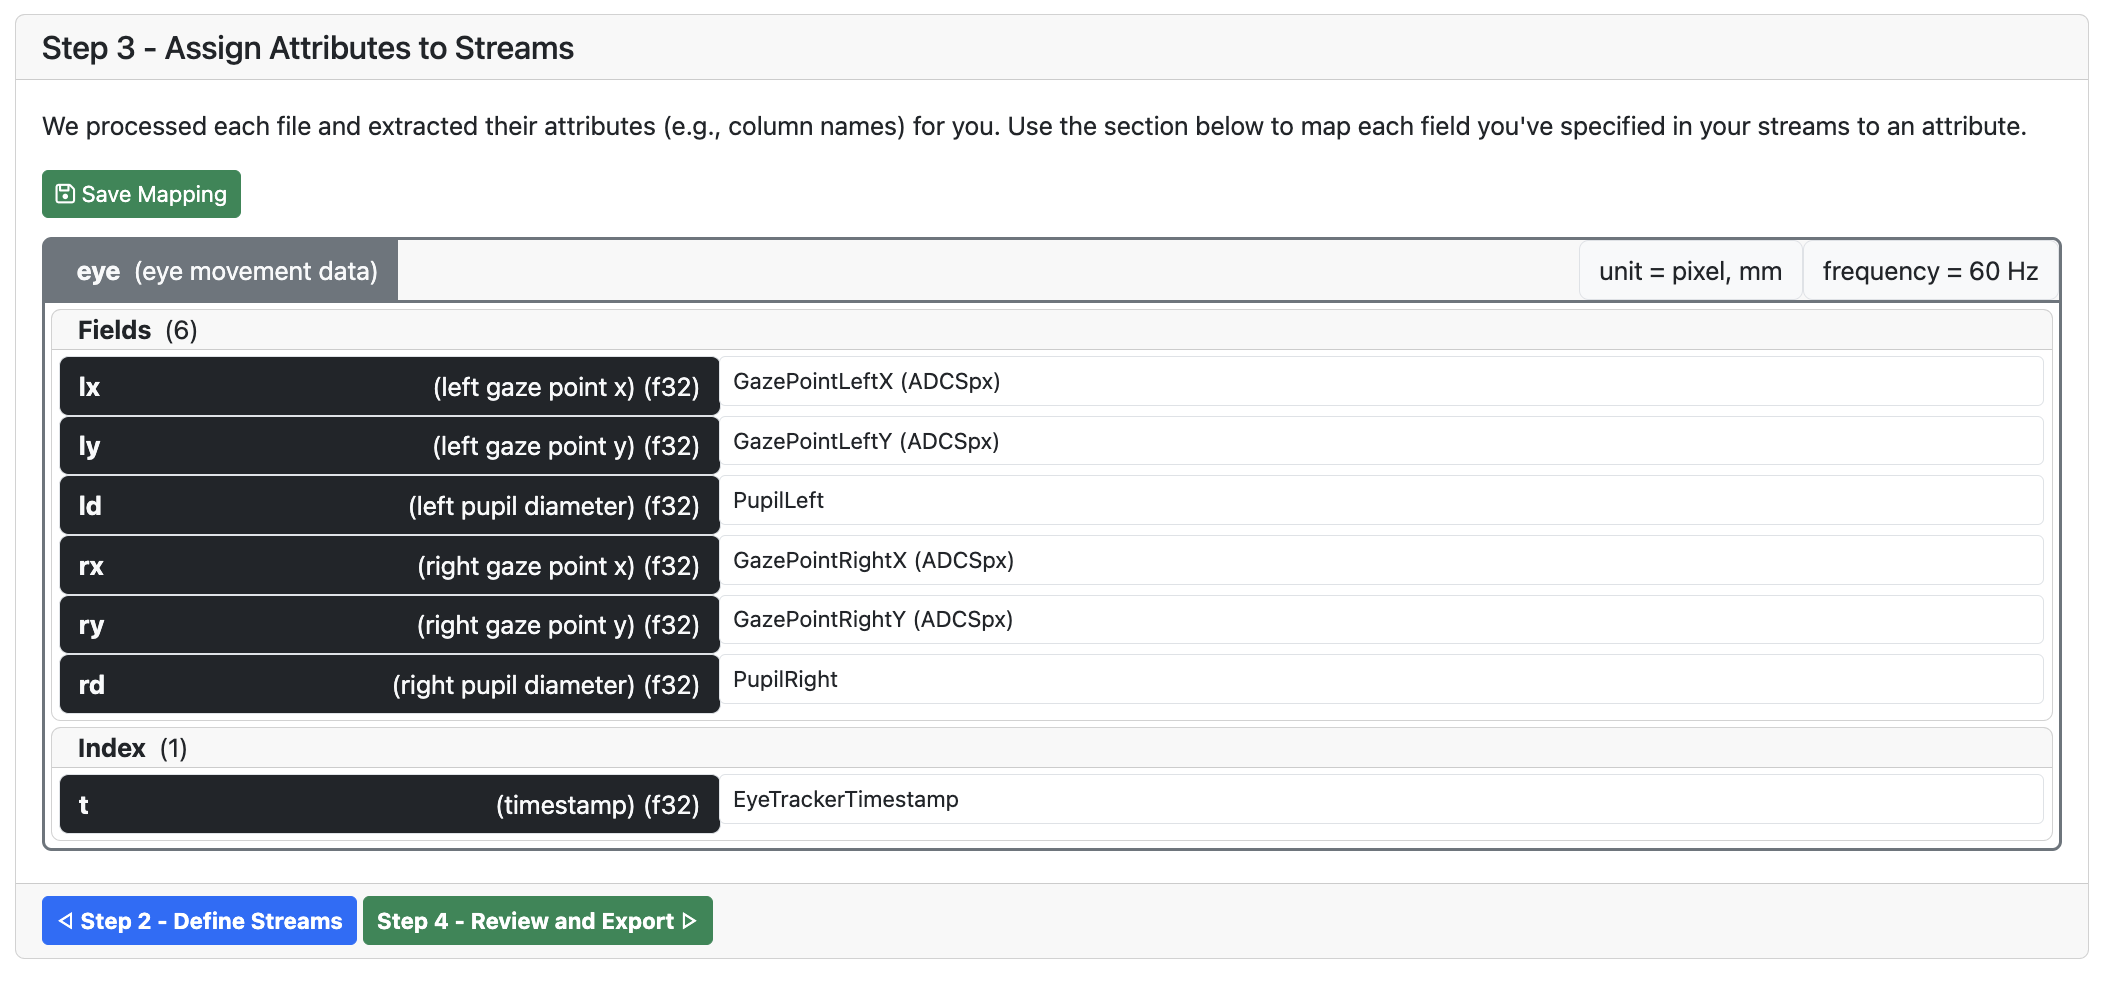
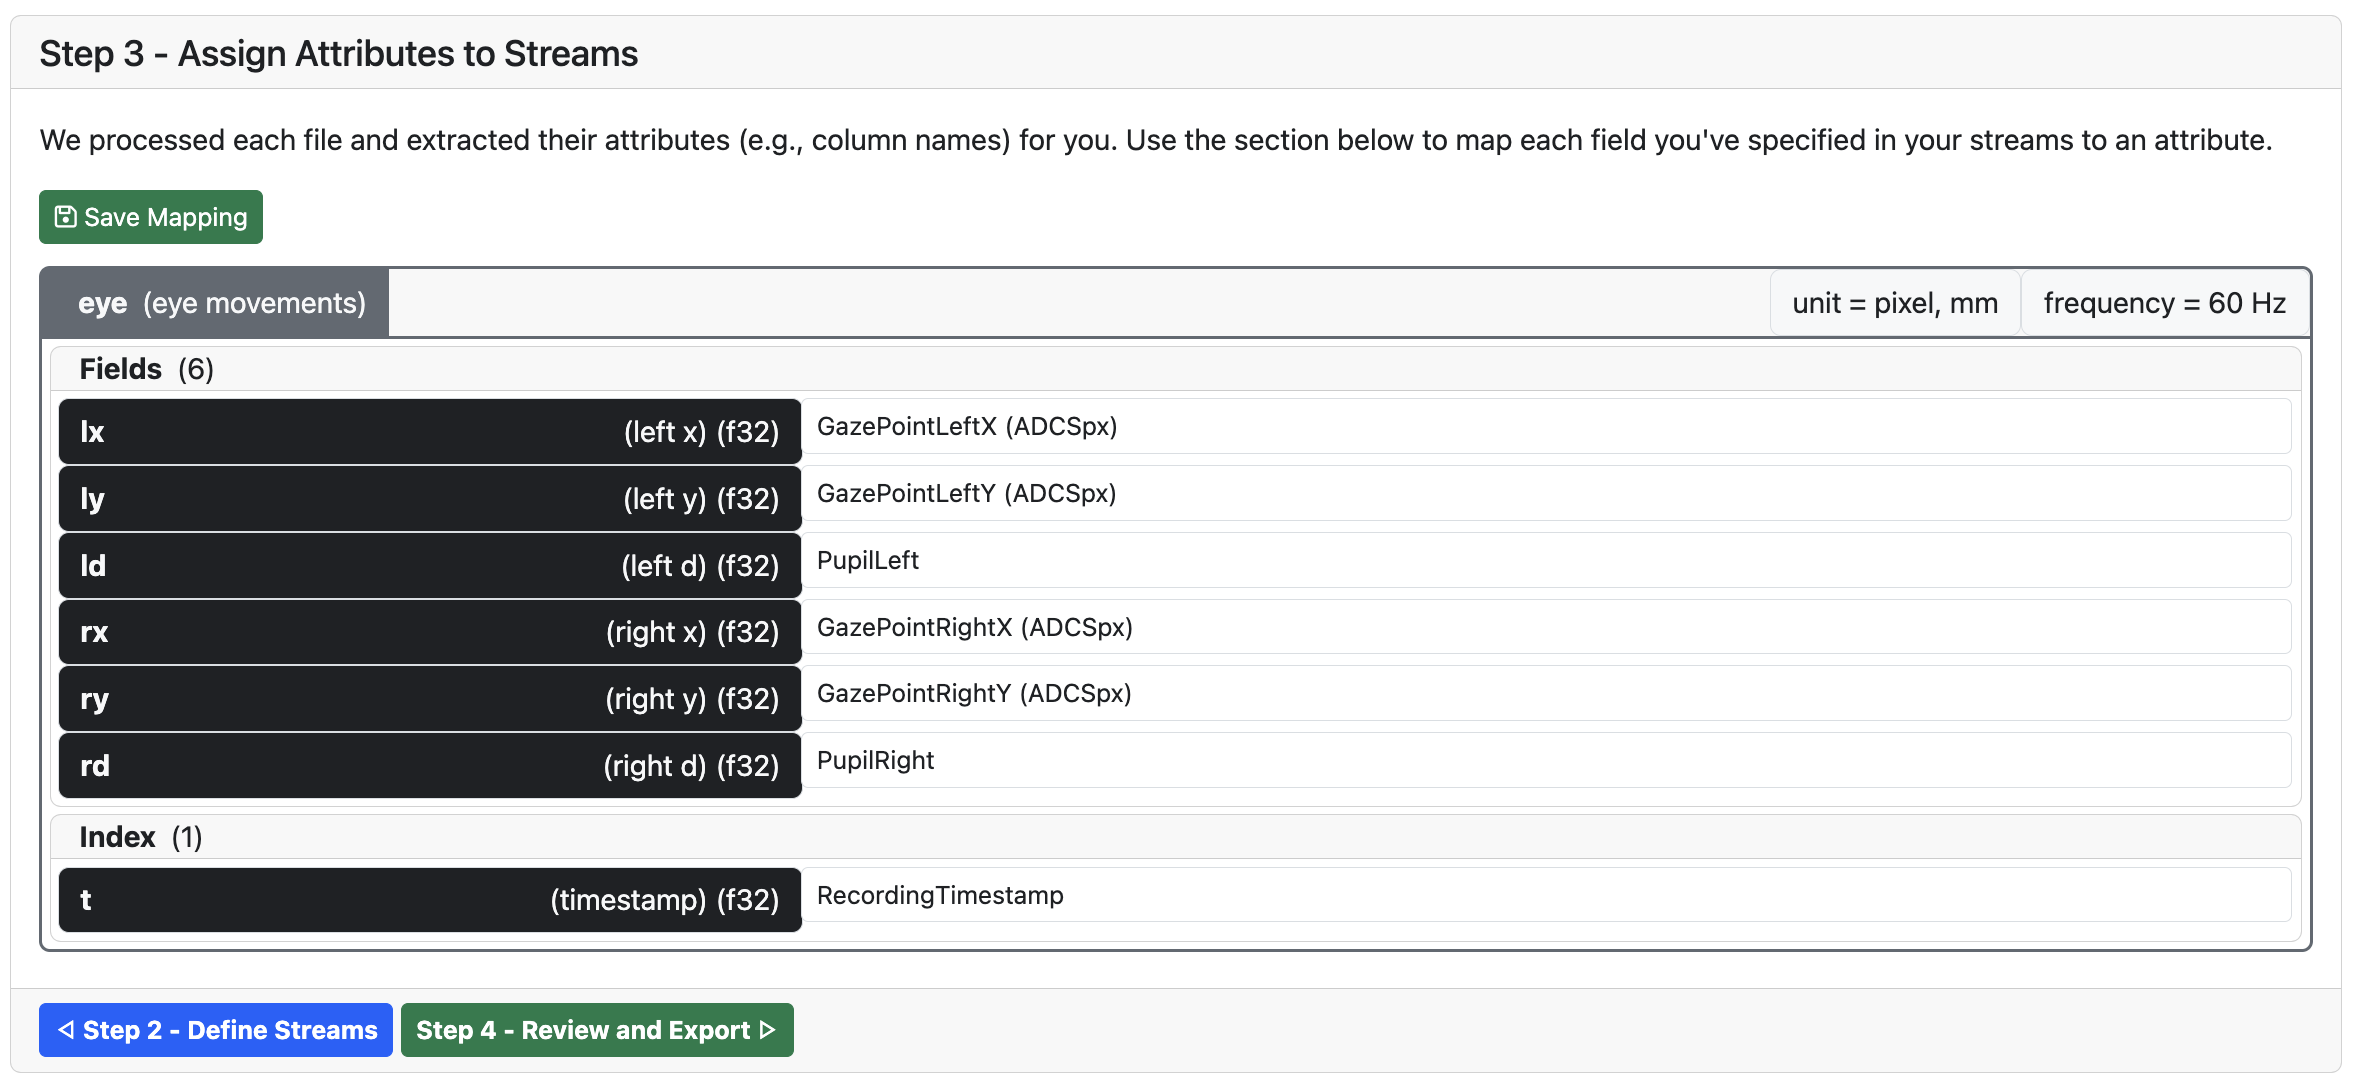
make user study html pages responsive

Changed region(s): [[0.0, 0.1833, 0.9991, 0.9776], [0.0, 0.1222, 0.9678, 0.1527], [0.0, 0.0305, 0.281, 0.0611]]

diff --git a/evaluation/ustdy_3_usability/index.html b/evaluation/ustdy_3_usability/index.html
@@ -17,6 +17,9 @@ body {
 	padding: 0 26px;
 	line-height: var(--vscode-markdown-line-height, 22px);
 	word-wrap: break-word;
+	max-width: min(50em, 100%);
+	margin-left: auto;
+	margin-right: auto;
 }
 
 #code-csp-warning {
@@ -413,7 +416,7 @@ code {
     pipeline_A = datamux.Pipeline(
         api.attach(stream, transform=preprocessor),
         <span class="hljs-comment"># IVT(screen_wh=screen_wh, diag_dist=diag_dist, freq=freq, vt=vt, transform=None),</span>
-        LogWriter(**stream.attrs, simulation=<span class="hljs-string">"ivt"</span>),
+        LogWriter(name=<span class="hljs-string">"ivt"</span>, **stream.attrs),
     )
 
     <span class="hljs-comment"># run pipeline</span>
@@ -429,7 +432,7 @@ code {
 <p><img src="assets/2.gif" alt="2"></p>
 <h2 id="setting-the-dataset-root">Setting the Dataset Root</h2>
 <p>Now, lets pick the current folder as the dataset’s root by clicking the <code>Use as Root</code> button at the top. This will get rid of long file paths.</p>
-<p><img src="assets/3.png" alt="3"></p>
+<p><img src="assets/3.gif" alt="3"></p>
 <h2 id="setting-the-dataset-name">Setting the Dataset Name</h2>
 <p>Nice! Let’s specify a name for the dataset. In the <strong>Dataset Name</strong> box, type in <code>ADHD_SIN</code> and click on the <code>save</code> icon on the right.</p>
 <h2 id="extracting-metadata-from-file-namespaths">Extracting Metadata from File Names/Paths</h2>
@@ -443,7 +446,7 @@ code {
 <pre class="hljs"><code><div>(?P&lt;subject&gt;\d+)ADHD_AV_(?P&lt;noise&gt;0|5|10|15|20|25)(?P&lt;task&gt;\d+)\.csv
 </div></code></pre>
 <p><strong>Now, let’s use this pattern to extract metadata from file names.</strong> Begin by selecting all files from the table in <strong>Step 1</strong> block.  Now copy-paste the above regular expression into the <strong>Name Pattern</strong> box under <strong>Extract Metadata</strong>, and click on <code>Extract</code>. Upon doing so, you will see that Curator has extracted metadata from each file name.</p>
-<p><img src="assets/6.png" alt="6"></p>
+<p><img src="assets/6.gif" alt="6"></p>
 <h2 id="identifying-relevant-columns-in-data">Identifying Relevant Columns in Data</h2>
 <p>Now let’s open some files and view their content. For this, you can simply <strong>click on the file names</strong> on either of the tables. This will download the selected file(s) to your computer, where you can view their content. Depending on your web browser, you may either get a download prompt, or the file may download/open immediately.</p>
 <p><img src="assets/4.png" alt="4"></p>
@@ -456,9 +459,9 @@ code {
 <li>GazePointRightY (ADCSpx)</li>
 <li>PupilLeft</li>
 <li>PupilRight</li>
-<li>EyeTrackerTimestamp</li>
+<li>RecordingTimestamp</li>
 </ol>
-<p>The <code>GazePointLeftX (ADCSpx)</code>, <code>GazePointLeftY (ADCSpx)</code>, <code>GazePointRightX (ADCSpx)</code>, and <code>GazePointRightY (ADCSpx)</code> columns indicate which eye (left or right) and axis (x or y) it represents, and that its values are in pixels (<code>px</code>). However, the <code>PupilLeft</code> and <code>PupilRight</code> column names lack the unit information. If you observe the <code>PupilLeft</code> and <code>PupilRight</code> column values, you will find their values to be in range of <code>3.0</code> — <code>5.0</code> , which matches human pupil diameter range in <code>mm</code> (<code>2.0</code> to <code>8.0</code>). Hence we can safely assume their values are in <code>mm</code>. The <code>EyeTrackerTimestamp</code> column gives time information. All data appears to be in 60 Hz (i.e., each file has 60 rows per second).</p>
+<p>The <code>GazePointLeftX (ADCSpx)</code>, <code>GazePointLeftY (ADCSpx)</code>, <code>GazePointRightX (ADCSpx)</code>, and <code>GazePointRightY (ADCSpx)</code> columns indicate which eye (left or right) and axis (x or y) it represents, and that its values are in pixels (<code>px</code>). However, the <code>PupilLeft</code> and <code>PupilRight</code> column names lack the unit information. If you observe the <code>PupilLeft</code> and <code>PupilRight</code> column values, you will find their values to be in range of <code>3.0</code> — <code>5.0</code> , which matches human pupil diameter range in <code>mm</code> (<code>2.0</code> to <code>8.0</code>). Hence we can safely assume their values are in <code>mm</code>. The <code>RecordingTimestamp</code> column gives time information. All data appears to be in 60 Hz (i.e., each file has 60 rows per second).</p>
 <p>With this information, let’s move onto the next step by clicking <strong>Step 2 - Define Streams</strong>.</p>
 <h2 id="defining-data-streams">Defining Data Streams</h2>
 <p>Now, you’re in the page where you can specify what structure you want the data to be in. Lets first define a stream with the following attributes.</p>
@@ -485,7 +488,7 @@ code {
 </ul>
 <p>Leave all <strong>description</strong> fields blank. Use float32 for all <strong>type</strong> fields. The final UI will look like follows.</p>
 <p><img src="assets/8.png" alt="8"></p>
-<p>Once done, click the <strong>Save Streams</strong> button to save what you just defined.</p>
+<p>Once done, <span style="background-color: yellow;">click the <strong>Save Streams</strong> button</span> to save what you just defined.</p>
 <aside>
 Note that here, we put both x, y positions (which have `pixel` units) and pupil diameters (which have `mm` units) into the same stream, and set its unit as `pixel, mm`. Alternatively, you could define two separate streams, `gaze` and `pupil`, with `gaze` having `pixel` as unit, and `pupil` having `mm` as unit. Depending on your need, you can pick one format over the other. For the scope of this tutorial, let’s stick to having one `eye` stream.
 </aside>
@@ -503,11 +506,11 @@ Note that here, we put both x, y positions (which have `pixel` units) and pupil 
 <li><code>rx</code> - GazePointRightX (ADCSpx)</li>
 <li><code>ry</code> - GazePointRightY (ADCSpx)</li>
 <li><code>rd</code> - PupilRight</li>
-<li><code>t</code> - EyeTrackerTimestamp</li>
+<li><code>t</code> - RecordingTimestamp</li>
 </ul>
 <p>Once assigned, the UI should look as follows.</p>
 <p><img src="assets/11.png" alt="11"></p>
-<p>Now, click on the <code>Save Mapping</code> button and click on <code>Step 4 - Review and Export</code> to proceed to the next step.</p>
+<p>Now, <span style="background-color: yellow;">click on the <code>Save Mapping</code> button</span> and click on <code>Step 4 - Review and Export</code> to proceed to the next step.</p>
 <h2 id="exporting-the-dataset">Exporting the Dataset</h2>
 <p>Now, you’re in the page where you can download the dataset with a file format and indexing pattern of your choice.</p>
 <p><img src="assets/12.png" alt="12"></p>
@@ -527,7 +530,7 @@ Note that here, we put both x, y positions (which have `pixel` units) and pupil 
 source ./venv/bin/activate
 python -m pip install -r requirements.txt
 </div></code></pre>
-<p>This will install four packages: <code>streaminghub-datamux</code> , <code>streaminghub-pydfds</code>, <code>streaminghub-proxy-pupil-core</code>, and their required dependencies.</p>
+<p>This will install three packages: <code>streaminghub-datamux</code> , <code>streaminghub-pydfds</code>, <code>streaminghub-proxy-pupil-core</code>, and their required dependencies.</p>
 <p><strong>Step 4:</strong> Create a new directory named <code>$HOME/streaminghub</code> and configure the <code>streaminghub-datamux</code> package to use that directory.</p>
 <pre class="hljs"><code><div>mkdir -p $HOME/streaminghub
 python -m streaminghub_datamux init --data_dir="$HOME/streaminghub" --meta_dir="$HOME/streaminghub"
@@ -584,7 +587,7 @@ drwxr-xr-x@ 850 ......  .....  27200 Jun 24 13:30 ADHD_SIN
     pipeline_A = datamux.Pipeline(
         api.attach(stream, transform=preprocessor),
         <span class="hljs-comment"># IVT(screen_wh=screen_wh, diag_dist=diag_dist, freq=freq, vt=vt, transform=None),</span>
-        LogWriter(**stream.attrs, simulation=<span class="hljs-string">"ivt"</span>),
+        LogWriter(name=<span class="hljs-string">"ivt"</span>, **stream.attrs),
     )
 
     <span class="hljs-comment"># run pipeline</span>
@@ -626,7 +629,7 @@ drwxr-xr-x@ 850 ......  .....  27200 Jun 24 13:30 ADHD_SIN
 pipeline_A = datamux.Pipeline(
     api.attach(stream, transform=preprocessor),
     <span class="hljs-comment"># IVT(screen_wh=screen_wh, diag_dist=diag_dist, freq=freq, vt=vt, transform=None),</span>
-    LogWriter(**stream.attrs, simulation=<span class="hljs-string">"ivt"</span>),
+    LogWriter(name=<span class="hljs-string">"ivt"</span>, **stream.attrs),
 )
 </div></code></pre>
 <p><strong>After</strong></p>
@@ -634,7 +637,7 @@ pipeline_A = datamux.Pipeline(
 pipeline_A = datamux.Pipeline(
     api.attach(stream, transform=preprocessor),
     IVT(screen_wh=screen_wh, diag_dist=diag_dist, freq=freq, vt=vt, transform=<span class="hljs-literal">None</span>),
-    LogWriter(**stream.attrs, simulation=<span class="hljs-string">"ivt"</span>),
+    LogWriter(name=<span class="hljs-string">"ivt"</span>, **stream.attrs),
 )
 </div></code></pre>
 <p>Now, let’s run the pipeline again.</p>

diff --git a/evaluation/ustdy_1_need/index.html b/evaluation/ustdy_1_need/index.html
@@ -17,6 +17,9 @@ body {
 	padding: 0 26px;
 	line-height: var(--vscode-markdown-line-height, 22px);
 	word-wrap: break-word;
+	max-width: min(50em, 100%);
+	margin-left: auto;
+	margin-right: auto;
 }
 
 #code-csp-warning {
@@ -368,7 +371,7 @@ code {
 <form id="questionnaire">
 <h1 id="streaminghub-questionnaire---introduction">StreamingHub Questionnaire - Introduction</h1>
 <p>The text below describes the perspectives of three researchers; <strong>Alice</strong>, <strong>Bob</strong>, and <strong>Cindy</strong>.</p>
-<p><img style="max-width: 50em; max-height: 50em;" src="https://raw.githubusercontent.com/nirdslab/streaminghub/master/evaluation/ustdy_1_need/assets/personas.png" alt="Personas"></p>
+<p><img src="https://raw.githubusercontent.com/nirdslab/streaminghub/master/evaluation/ustdy_1_need/assets/personas.png" alt="Personas"></p>
 <ol>
 <li><strong>Alice (Dataset Curation) -</strong> Collecting and organizing datasets for easy reuse</li>
 <li><strong>Bob (Algorithm Design) -</strong> Developing RT algorithms and validating them on existing data</li>

diff --git a/evaluation/ustdy_2_preference/index.html b/evaluation/ustdy_2_preference/index.html
@@ -17,6 +17,9 @@ body {
 	padding: 0 26px;
 	line-height: var(--vscode-markdown-line-height, 22px);
 	word-wrap: break-word;
+	max-width: min(50em, 100%);
+	margin-left: auto;
+	margin-right: auto;
 }
 
 #code-csp-warning {

diff --git a/evaluation/ustdy_3_usability/index.md b/evaluation/ustdy_3_usability/index.md
@@ -51,7 +51,7 @@ if __name__ == "__main__":
     pipeline_A = datamux.Pipeline(
         api.attach(stream, transform=preprocessor),
         # IVT(screen_wh=screen_wh, diag_dist=diag_dist, freq=freq, vt=vt, transform=None),
-        LogWriter(**stream.attrs, simulation="ivt"),
+        LogWriter(name="ivt", **stream.attrs),
     )
 
     # run pipeline
@@ -78,7 +78,7 @@ Let’s first open the `Eye Tracking/ADHD-Audio-Visual-Speech-In-Noise/data` fol
 
 Now, lets pick the current folder as the dataset’s root by clicking the `Use as Root` button at the top. This will get rid of long file paths.
 
-![3](assets/3.png)
+![3](assets/3.gif)
 
 ## Setting the Dataset Name
 
@@ -100,7 +100,7 @@ Notice that each file is named according to the pattern `<subject>ADHD_AV_<noise
 
 **Now, let’s use this pattern to extract metadata from file names.** Begin by selecting all files from the table in **Step 1** block.  Now copy-paste the above regular expression into the **Name Pattern** box under **Extract Metadata**, and click on `Extract`. Upon doing so, you will see that Curator has extracted metadata from each file name.
 
-![6](assets/6.png)
+![6](assets/6.gif)
 
 ## Identifying Relevant Columns in Data
 
@@ -118,9 +118,9 @@ That’s one messy file! Let’s find which columns represent the **gaze positio
 4. GazePointRightY (ADCSpx)
 5. PupilLeft
 6. PupilRight
-7. EyeTrackerTimestamp
+7. RecordingTimestamp
 
-The `GazePointLeftX (ADCSpx)`, `GazePointLeftY (ADCSpx)`, `GazePointRightX (ADCSpx)`, and `GazePointRightY (ADCSpx)` columns indicate which eye (left or right) and axis (x or y) it represents, and that its values are in pixels (`px`). However, the `PupilLeft` and `PupilRight` column names lack the unit information. If you observe the `PupilLeft` and `PupilRight` column values, you will find their values to be in range of `3.0` — `5.0` , which matches human pupil diameter range in `mm` (`2.0` to `8.0`). Hence we can safely assume their values are in `mm`. The `EyeTrackerTimestamp` column gives time information. All data appears to be in 60 Hz (i.e., each file has 60 rows per second).
+The `GazePointLeftX (ADCSpx)`, `GazePointLeftY (ADCSpx)`, `GazePointRightX (ADCSpx)`, and `GazePointRightY (ADCSpx)` columns indicate which eye (left or right) and axis (x or y) it represents, and that its values are in pixels (`px`). However, the `PupilLeft` and `PupilRight` column names lack the unit information. If you observe the `PupilLeft` and `PupilRight` column values, you will find their values to be in range of `3.0` — `5.0` , which matches human pupil diameter range in `mm` (`2.0` to `8.0`). Hence we can safely assume their values are in `mm`. The `RecordingTimestamp` column gives time information. All data appears to be in 60 Hz (i.e., each file has 60 rows per second).
 
 With this information, let’s move onto the next step by clicking **Step 2 - Define Streams**.
 
@@ -179,7 +179,7 @@ Let’s assign the right columns to each field.
 - `rx` - GazePointRightX (ADCSpx)
 - `ry` - GazePointRightY (ADCSpx)
 - `rd` - PupilRight
-- `t` - EyeTrackerTimestamp
+- `t` - RecordingTimestamp
 
 Once assigned, the UI should look as follows.
 
@@ -222,7 +222,7 @@ source ./venv/bin/activate
 python -m pip install -r requirements.txt
 ```
 
-This will install four packages: `streaminghub-datamux` , `streaminghub-pydfds`, `streaminghub-proxy-pupil-core`, and their required dependencies.
+This will install three packages: `streaminghub-datamux` , `streaminghub-pydfds`, `streaminghub-proxy-pupil-core`, and their required dependencies.
 
 **Step 4:** Create a new directory named `$HOME/streaminghub` and configure the `streaminghub-datamux` package to use that directory.
 
@@ -293,7 +293,7 @@ if __name__ == "__main__":
     pipeline_A = datamux.Pipeline(
         api.attach(stream, transform=preprocessor),
         # IVT(screen_wh=screen_wh, diag_dist=diag_dist, freq=freq, vt=vt, transform=None),
-        LogWriter(**stream.attrs, simulation="ivt"),
+        LogWriter(name="ivt", **stream.attrs),
     )
 
     # run pipeline
@@ -355,7 +355,7 @@ Now, let’s uncomment the 2nd step of the pipeline. This turns our script from,
 pipeline_A = datamux.Pipeline(
     api.attach(stream, transform=preprocessor),
     # IVT(screen_wh=screen_wh, diag_dist=diag_dist, freq=freq, vt=vt, transform=None),
-    LogWriter(**stream.attrs, simulation="ivt"),
+    LogWriter(name="ivt", **stream.attrs),
 )
 ```
 
@@ -366,7 +366,7 @@ pipeline_A = datamux.Pipeline(
 pipeline_A = datamux.Pipeline(
     api.attach(stream, transform=preprocessor),
     IVT(screen_wh=screen_wh, diag_dist=diag_dist, freq=freq, vt=vt, transform=None),
-    LogWriter(**stream.attrs, simulation="ivt"),
+    LogWriter(name="ivt", **stream.attrs),
 )
 ```
 
